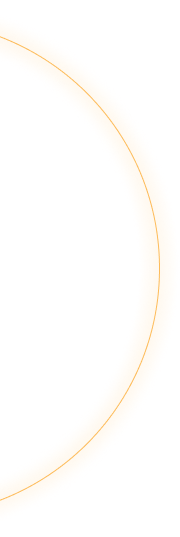
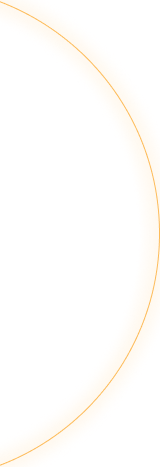
vip зокончил

diff --git a/css/main.css b/css/main.css
@@ -53,6 +53,10 @@ section, .header_menu {
           align-items: center;
 }
 
+.transfer {
+  display: block;
+}
+
 .lain {
   position: relative;
 }
@@ -338,7 +342,7 @@ section, .header_menu {
   position: absolute;
   top: 60%;
   left: 0;
-  height: 139.23rem;
+  height: 73.72rem;
   width: 98.7vw;
   background: url("../img/offer/Background1.png") no-repeat;
   background-size: 100%;
@@ -455,6 +459,143 @@ section, .header_menu {
 
 .warranty_title {
   font-size: 2.33rem;
+}
+
+.vip {
+  position: relative;
+  display: block;
+  padding-top: 5rem;
+  padding-bottom: 13.5rem;
+  z-index: 2;
+}
+
+.vip::before {
+  content: "";
+  position: absolute;
+  top: 36%;
+  left: 50%;
+  -webkit-transform: translateX(-50%);
+          transform: translateX(-50%);
+  height: 1168px;
+  width: 1801px;
+  background: url("../img/vip/Lines_dec_background3.png") no-repeat;
+}
+
+.vip::after {
+  content: "";
+  position: absolute;
+  right: 0;
+  bottom: 0;
+  height: 403px;
+  width: 109px;
+  background: url("../img/vip/Vector 63.png") no-repeat;
+}
+
+.vip_title {
+  font-size: 2.3rem;
+  line-height: 3rem;
+  text-align: center;
+}
+
+.vip_title::before {
+  content: "";
+  position: absolute;
+  top: -1.77rem;
+  left: 0;
+  height: 314px;
+  width: 137px;
+  background: url("../img/vip/Line_dec2.png") no-repeat;
+}
+
+.vip_block {
+  display: -webkit-box;
+  display: -ms-flexbox;
+  display: flex;
+  -webkit-box-align: center;
+      -ms-flex-align: center;
+          align-items: center;
+  margin-top: 3.83rem;
+}
+
+.vip_block_china {
+  -webkit-box-pack: end;
+      -ms-flex-pack: end;
+          justify-content: end;
+}
+
+.vip_block_china_text {
+  margin-right: 7.2778rem;
+}
+
+.vip_block_china_text::before {
+  right: calc(-1.22rem + -24px);
+}
+
+.vip_block_china_img_wrap {
+  margin-right: 16px;
+}
+
+.vip_block_italy {
+  position: relative;
+}
+
+.vip_block_italy_text {
+  margin-left: 7.2778rem;
+}
+
+.vip_block_italy_text::before {
+  left: calc(-1.22rem + -24px);
+}
+
+.vip_block_italy::before {
+  content: "";
+  position: absolute;
+  top: -72%;
+  left: 0;
+  height: 467px;
+  width: 161px;
+  background: url("../img/vip/Elipse_dec3.png") no-repeat;
+}
+
+.vip_block_wrap {
+  margin-top: 5.8rem;
+}
+
+.vip_block_img {
+  border-radius: 10px;
+  z-index: 2;
+}
+
+.vip_block_img_wrap {
+  position: relative;
+}
+
+.vip_block_img_wrap::before {
+  content: "";
+  position: absolute;
+  top: -12px;
+  right: -16px;
+  height: 100%;
+  width: 100%;
+  border: 1px solid #FDBB59;
+  border-radius: 10px;
+  z-index: -1;
+}
+
+.vip_block_text {
+  position: relative;
+  font-size: 2.16rem;
+}
+
+.vip_block_text::before {
+  content: "";
+  position: absolute;
+  height: 1px;
+  width: 24px;
+  top: 50%;
+  -webkit-transform: translateY(-50%);
+          transform: translateY(-50%);
+  background: #FBB659;
 }
 
 @media (min-width: 992px) {

diff --git a/sass/main.sass b/sass/main.sass
@@ -30,6 +30,9 @@ section
 	justify-content: space-between
 	align-items: center
 
+.transfer
+    display: block
+
 .lain
 	position: relative
 	&::before
@@ -233,7 +236,7 @@ section
 			position: absolute
 			top: 60%
 			left: 0
-			height: 139.23rem
+			height: 73.72rem
 			width: 98.7vw
 			background: url("../img/offer/Background1.png") no-repeat
 			background-size: 100%
@@ -308,6 +311,99 @@ section
 				background: url("../img/warranty/fi-rr-badge.png")
 	&_title
 		font-size: 2.33rem
+
+.vip
+	position: relative
+	display: block
+	padding-top: 5rem
+	padding-bottom: 13.5rem
+	z-index: 2
+	&::before
+		content: ""
+		position: absolute
+		top: 36%
+		left: 50%
+		transform: translateX(-50%)
+		height: 1168px
+		width: 1801px
+		background: url("../img/vip/Lines_dec_background3.png") no-repeat
+	&::after
+		content: ""
+		position: absolute
+		right: 0
+		bottom: 0
+		height: 403px
+		width: 109px
+		background: url("../img/vip/Vector 63.png") no-repeat
+	&_title
+		font-size: 2.3rem
+		line-height: 3rem
+		text-align: center
+		&::before
+				content: ""
+				position: absolute
+				top: -1.77rem
+				left: 0
+				height: 314px
+				width: 137px
+				background: url("../img/vip/Line_dec2.png") no-repeat
+	&_block
+		display: flex
+		align-items: center
+		margin-top: 3.83rem
+		&_china
+			justify-content: end
+			&_text
+				margin-right: 7.2778rem
+				&::before
+					right: calc(-1.22rem + -24px)
+			&_img
+				&_wrap
+					margin-right: 16px
+		&_italy
+			position: relative
+			&_text
+				margin-left: 7.2778rem
+				&::before
+					left: calc(-1.22rem + -24px
+			&::before
+				content: ""
+				position: absolute
+				top: -72%
+				left: 0
+				height: 467px
+				width: 161px
+				background: url("../img/vip/Elipse_dec3.png") no-repeat
+		&_wrap
+			margin-top: 5.8rem
+		&_img
+			border-radius: 10px
+			z-index: 2
+			&_wrap
+				position: relative
+				&::before
+					content: ""
+					position: absolute
+					top: -12px
+					right: -16px
+					height: 100%
+					width: 100%
+					border: 1px solid #FDBB59
+					border-radius: 10px
+					z-index: -1
+		&_text
+			position: relative
+			font-size: 2.16rem
+			&::before
+				content: ""
+				position: absolute
+				height: 1px
+				width: 24px
+				top: 50%
+				transform: translateY(-50%)
+				background: #FBB659
+				
+
 
 
 

diff --git a/index.html b/index.html
@@ -122,5 +122,25 @@
 			</div>
 		</div>
 	</section>
+	<section class="vip">
+		<h2 class="vip_title">
+			Для серьёзных игроков мы предлагаем доступ в 
+			<span class="transfer">закрытые комнаты с игрой на высоких ставках</span>
+		</h2>
+		<div class="vip_block_wrap">
+			<div class="vip_block vip_block_china">
+				<div class="vip_block_text vip_block_china_text">Китайские комнаты</div>
+				<div class="vip_block_img_wrap vip_block_china_img_wrap">
+					<img src="img/vip/china.jpg" alt="" class="vip_block_img vip_block_china_img">
+				</div>
+			</div>
+			<div class="vip_block vip_block_italy">
+				<div class="vip_block_img_wrap vip_block_italy_img_warp">
+					<img src="img/vip/italy.png" alt="" class="vip_block_img vip_block_italy_img">
+				</div>
+				<div class="vip_block_text vip_block_italy_text">Итальянские комнаты</div>
+			</div>
+		</div>
+	</section>
 </body>
 </html>
